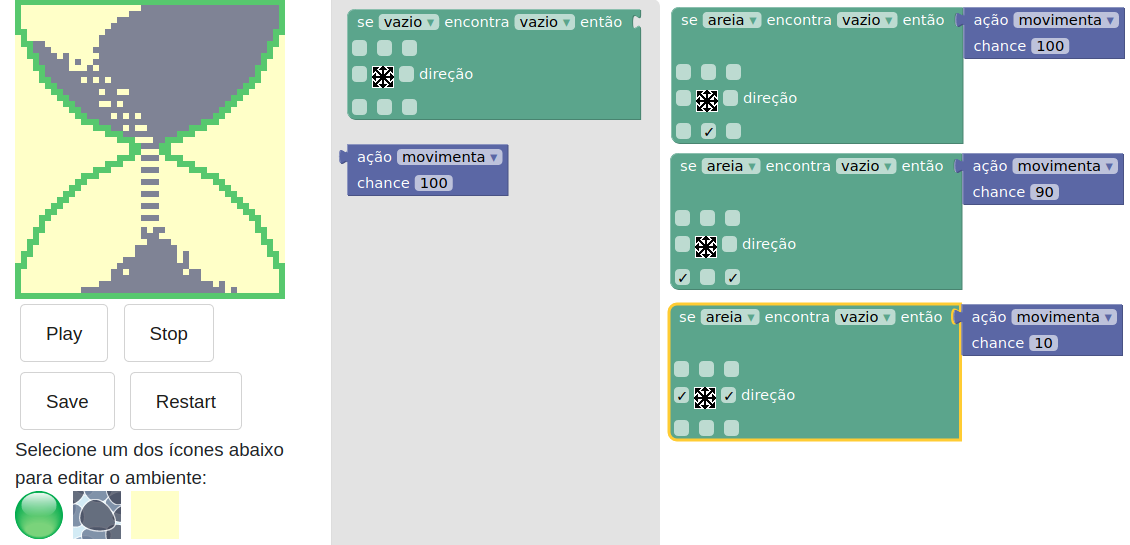
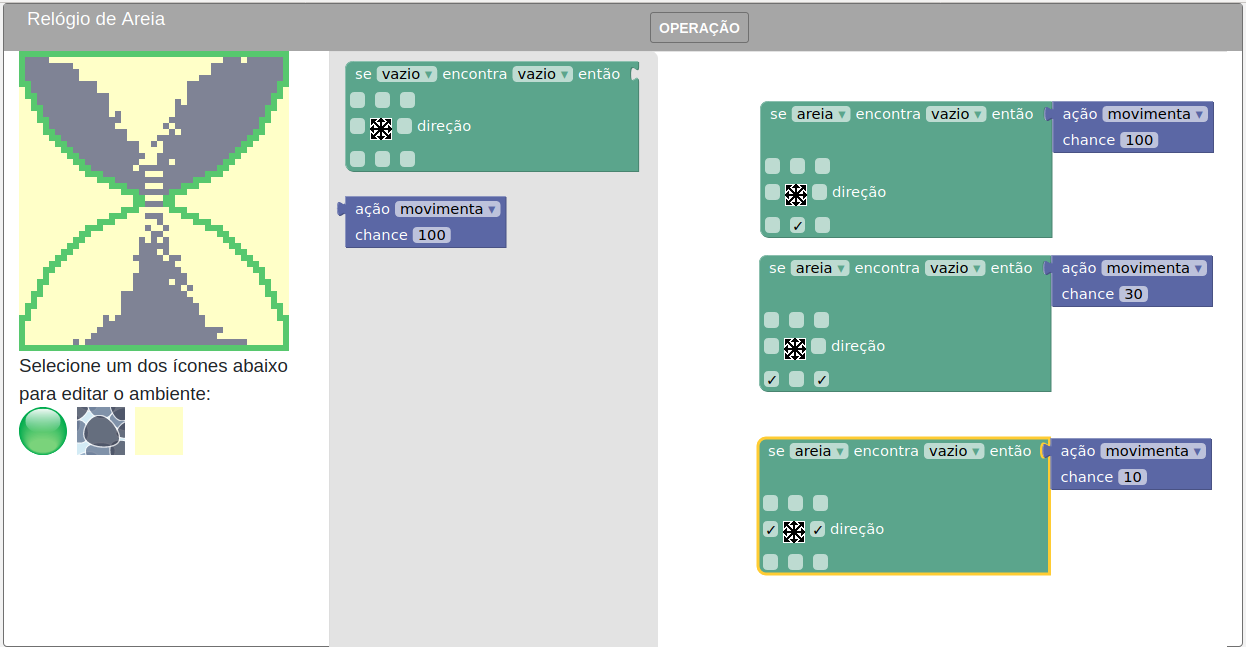
fix (dcc cell): small adjusts in the environment

diff --git a/src/adonisjs/public/scripts/playground/gallery/cell/movement-sand-clock.js b/src/adonisjs/public/scripts/playground/gallery/cell/movement-sand-clock.js
@@ -1,5 +1,5 @@
 (function() {
-insertSource(
+AuthorCellManager.instance.insertSource(
 "Relógio de Areia",
 [["sand",  ".", "areia"],
  ["glass", "#", "vidro"]],
@@ -62,12 +62,18 @@ _#_________________________________________#_
 
 <dcc-cell-color type="." label="sand" color="#7f8395"></dcc-cell-color>
 
-<dcc-trigger label="Play" action="timer/start"></dcc-trigger>
-<dcc-trigger label="Stop" action="timer/stop"></dcc-trigger>
-<dcc-trigger label="Save" action="state/save"></dcc-trigger>
-<dcc-trigger label="Restart" action="state/reset"></dcc-trigger>
 
-Selecione um dos ícones abaixo para editar o ambiente:
+
+<dcc-timer cycles="100000" interval="50" publish="state/next">
+   <subscribe-dcc message="timer/start" role="start"></subscribe-dcc>
+   <subscribe-dcc message="timer/stop" role="stop"></subscribe-dcc>
+</dcc-timer>
+
+<subscribe-dcc target="cellular-space" message="type/#" role="type"></subscribe-dcc>
+<subscribe-dcc target="cellular-space" message="state/next" role="next"></subscribe-dcc>
+<subscribe-dcc target="cellular-space" message="state/save" role="save"></subscribe-dcc>
+<subscribe-dcc target="cellular-space" message="state/reset" role="reset"></subscribe-dcc>`,
+`Selecione um dos ícones abaixo para editar o ambiente:
 <div style="flex:48px; max-height:48px; display:flex; flex-direction:row; border:2px">
    <div style="flex:10%; max-width:48px; max-height:48px; margin-right:10px">
       <dcc-trigger label="Vidro" action="type/glass"
@@ -84,16 +90,6 @@ Selecione um dos ícones abaixo para editar o ambiente:
                    image="images/cell/cell-yellow.svg">
       </dcc-trigger>
    </div>
-</div>
-
-<dcc-timer cycles="100000" interval="50" publish="state/next">
-   <subscribe-dcc message="timer/start" role="start"></subscribe-dcc>
-   <subscribe-dcc message="timer/stop" role="stop"></subscribe-dcc>
-</dcc-timer>
-
-<subscribe-dcc target="cellular-space" message="type/#" role="type"></subscribe-dcc>
-<subscribe-dcc target="cellular-space" message="state/next" role="next"></subscribe-dcc>
-<subscribe-dcc target="cellular-space" message="state/save" role="save"></subscribe-dcc>
-<subscribe-dcc target="cellular-space" message="state/reset" role="reset"></subscribe-dcc>`
+</div>`
 );
 })();

diff --git a/src/adonisjs/public/scripts/playground/js/author-cell.js b/src/adonisjs/public/scripts/playground/js/author-cell.js
@@ -60,18 +60,20 @@ class AuthorCellManager {
 
    _updateVisibility() {
       const states = (this._editMode)
-         ? ["none","none","none","initial","initial","none","initial"]
-         : ["initial","initial","initial","none","none","initial","none"];
+         ? ["none","none","none","none","initial","initial","none","initial"]
+         : ["initial","none","initial","initial","none","none","initial","none"];
       document.querySelector("#play-button").style.display = states[0];
-      document.querySelector("#restart-button").style.display = states[1];
-      document.querySelector("#next-button").style.display = states[2];
-      document.querySelector("#types-panel").style.display = states[3];
-      document.querySelector("#script-panel").style.display = states[4];
-      document.querySelector("#editor-button").style.display = states[5];
-      document.querySelector("#execute-button").style.display = states[6];
+      document.querySelector("#stop-button").style.display = states[1];
+      document.querySelector("#restart-button").style.display = states[2];
+      document.querySelector("#next-button").style.display = states[3];
+      document.querySelector("#types-panel").style.display = states[4];
+      document.querySelector("#script-panel").style.display = states[5];
+      document.querySelector("#editor-button").style.display = states[6];
+      document.querySelector("#execute-button").style.display = states[7];
    }
 
    async switchEditor() {
+      MessageBus.ext.publish("timer/stop");
       this._editMode = !this._editMode;
       this._updateVisibility();
 

diff --git a/src/adonisjs/public/scripts/playground/gallery/cell/movement-fly-balloon.js b/src/adonisjs/public/scripts/playground/gallery/cell/movement-fly-balloon.js
@@ -6,7 +6,7 @@ AuthorCellManager.instance.insertSource(
  ["tree", "t", {src: "images/cell/tree01.svg", width: 25, height: 25, alt: "árvore"}]],
 `<block type="neighbor"></block>
 <block type="action"></block>`,
-`<dcc-space-cellular-editor id="cellular-space" cell-width="50" cell-height="50" grid>
+`<dcc-space-cellular-editor id="cellular-space" cell-width="50" cell-height="50" background-color="#d6f0ffff" grid>
 ______
 ______
 ______
@@ -43,7 +43,7 @@ _____t
    </div>
    <div style="flex:10%; max-width:48px; max-height:48px; margin-right:10px">
       <dcc-trigger label="Nada" action="type/empty"
-                   image="images/cell/cell-yellow.svg">
+                   image="images/cell/cell-blue.svg">
       </dcc-trigger>
    </div>
 </div>`

diff --git a/src/adonisjs/public/scripts/playground/README.md b/src/adonisjs/public/scripts/playground/README.md
@@ -11,8 +11,11 @@ See below some examples in our scripts gallery:
 ![Balão](images/movement-fly-balloon.png)
 [Balão](editor.html?source=cell/movement-fly-balloon)
 
-![Balão, Avião e Nuvem](images/movement-fly-balloon.png)
+![Balão, Avião e Nuvem](images/movement-fly-balloon-cloud-plane.png)
 [Balão, Avião e Nuvem](editor.html?source=cell/movement-fly-balloon-cloud-plane)
+
+![Relógio de Areia](images/movement-sand-clock.png)
+[Relógio de Areia](editor.html?source=cell/movement-sand-clock)
 
 ## Imported images
 
